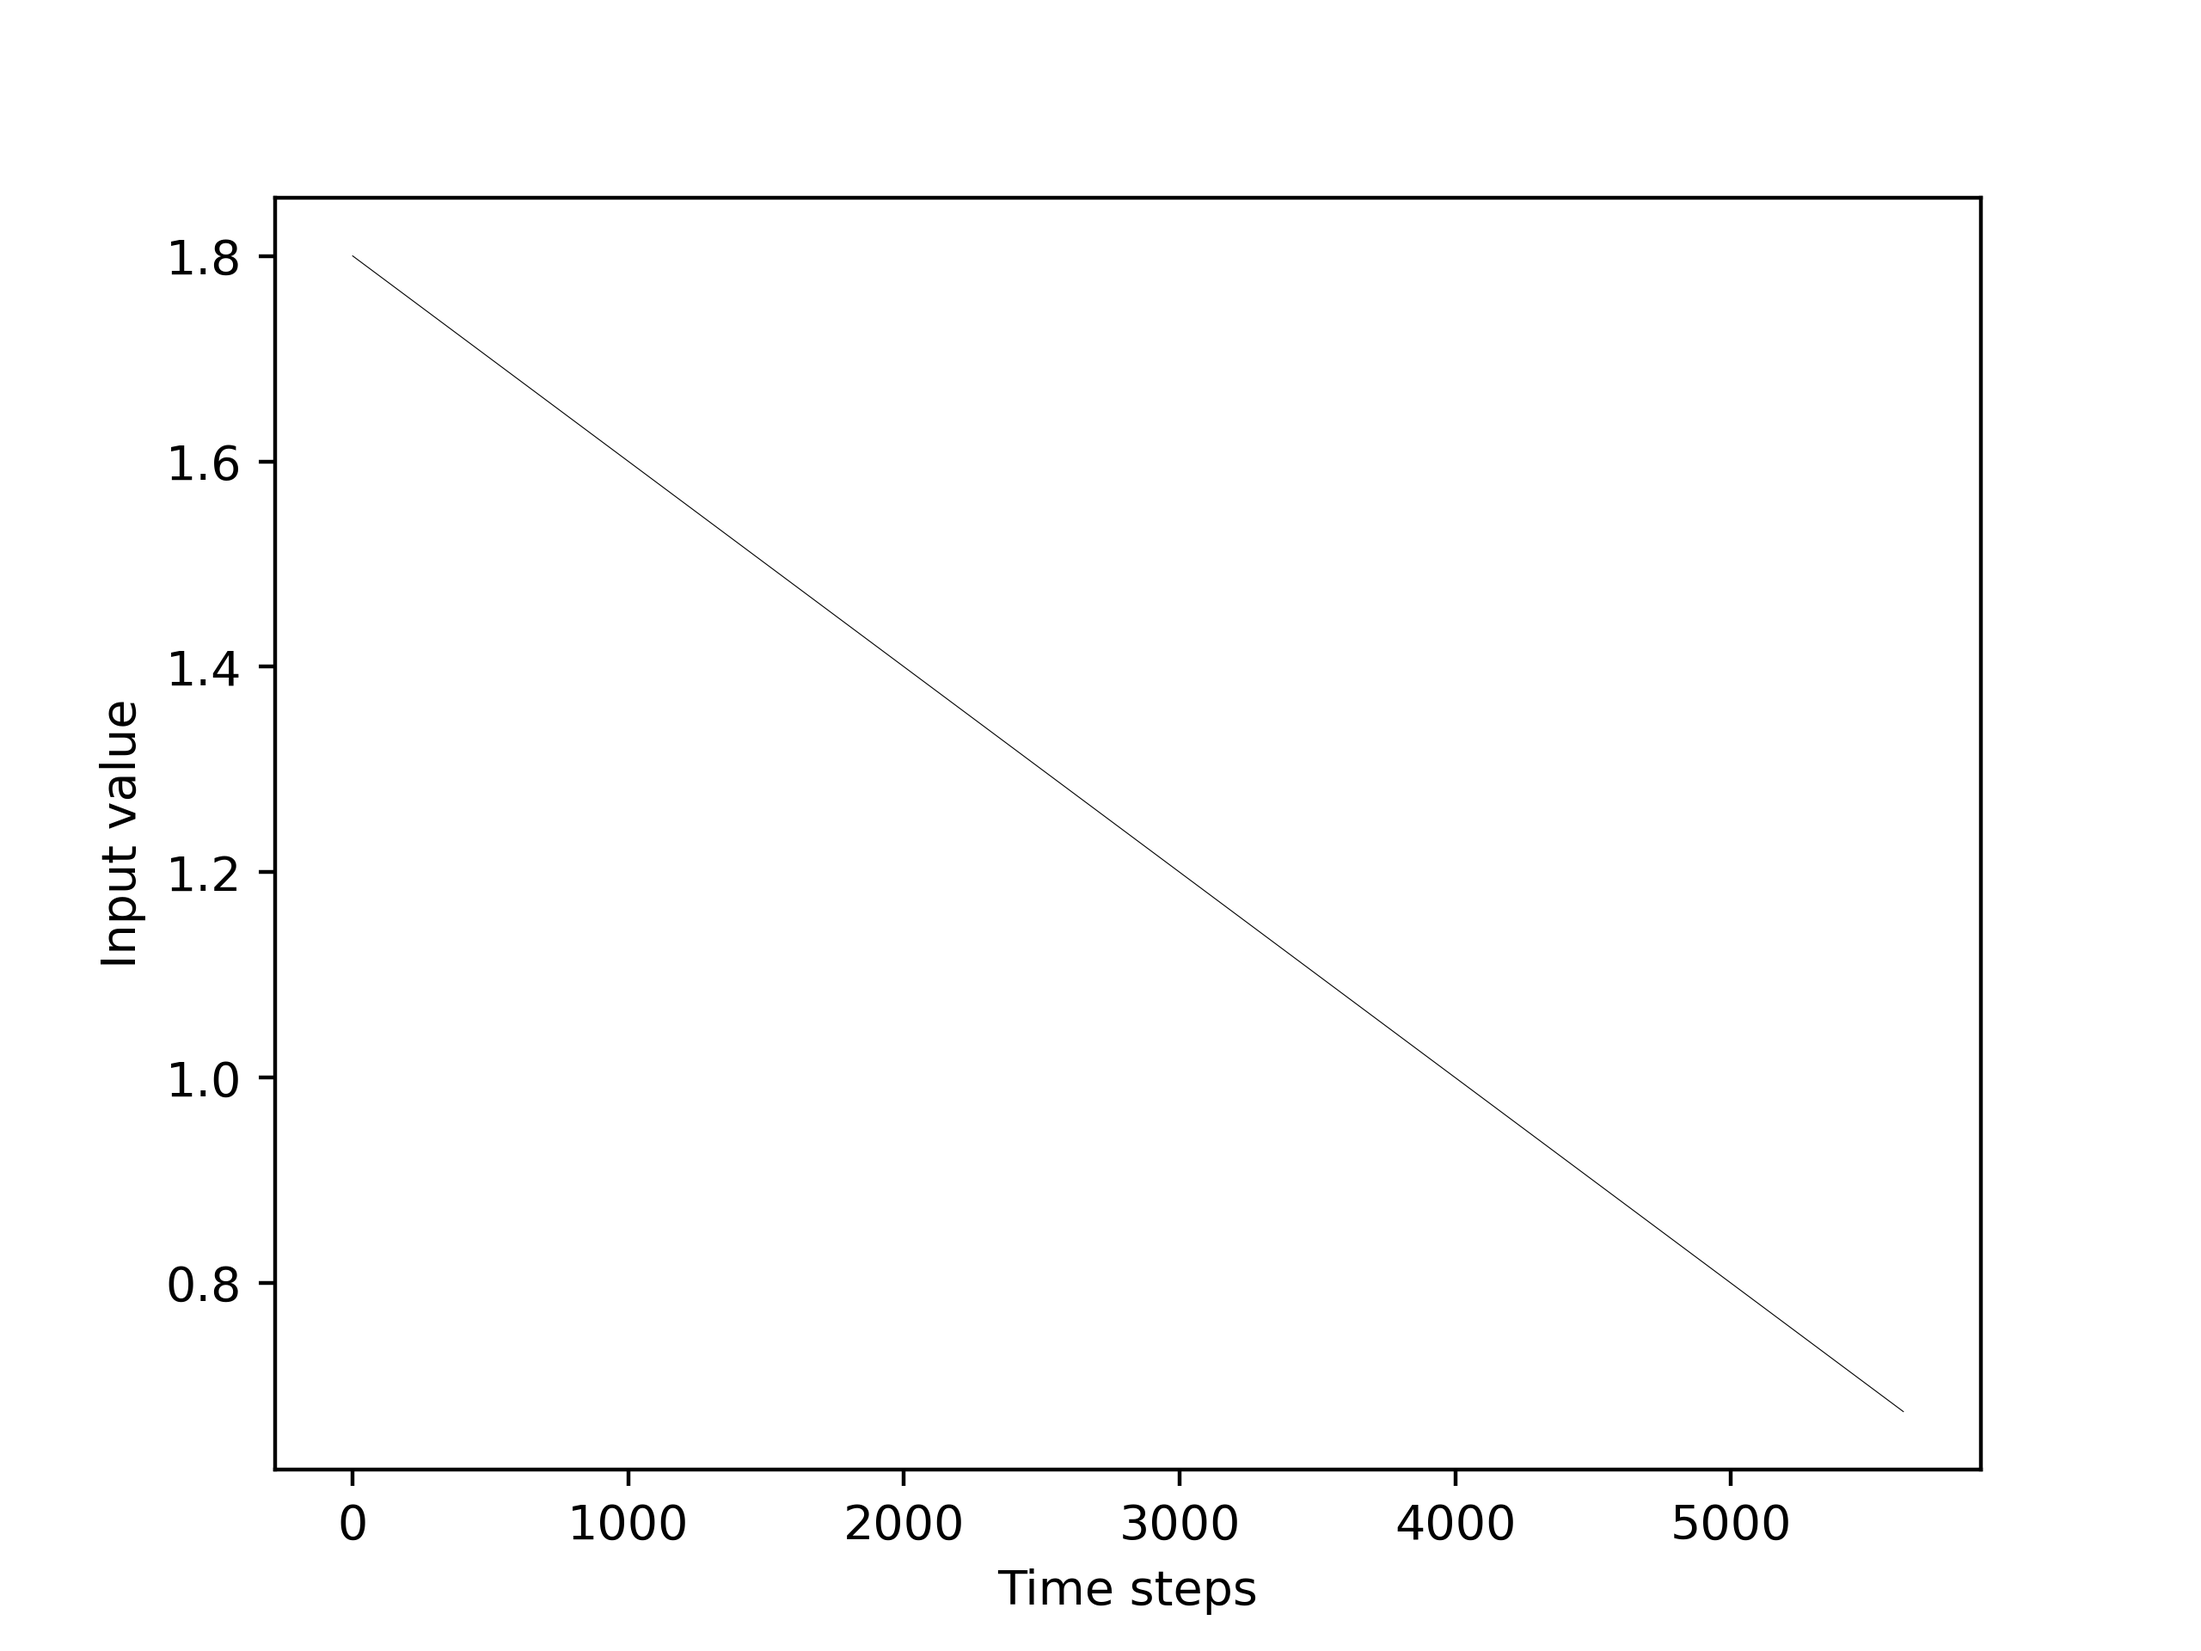
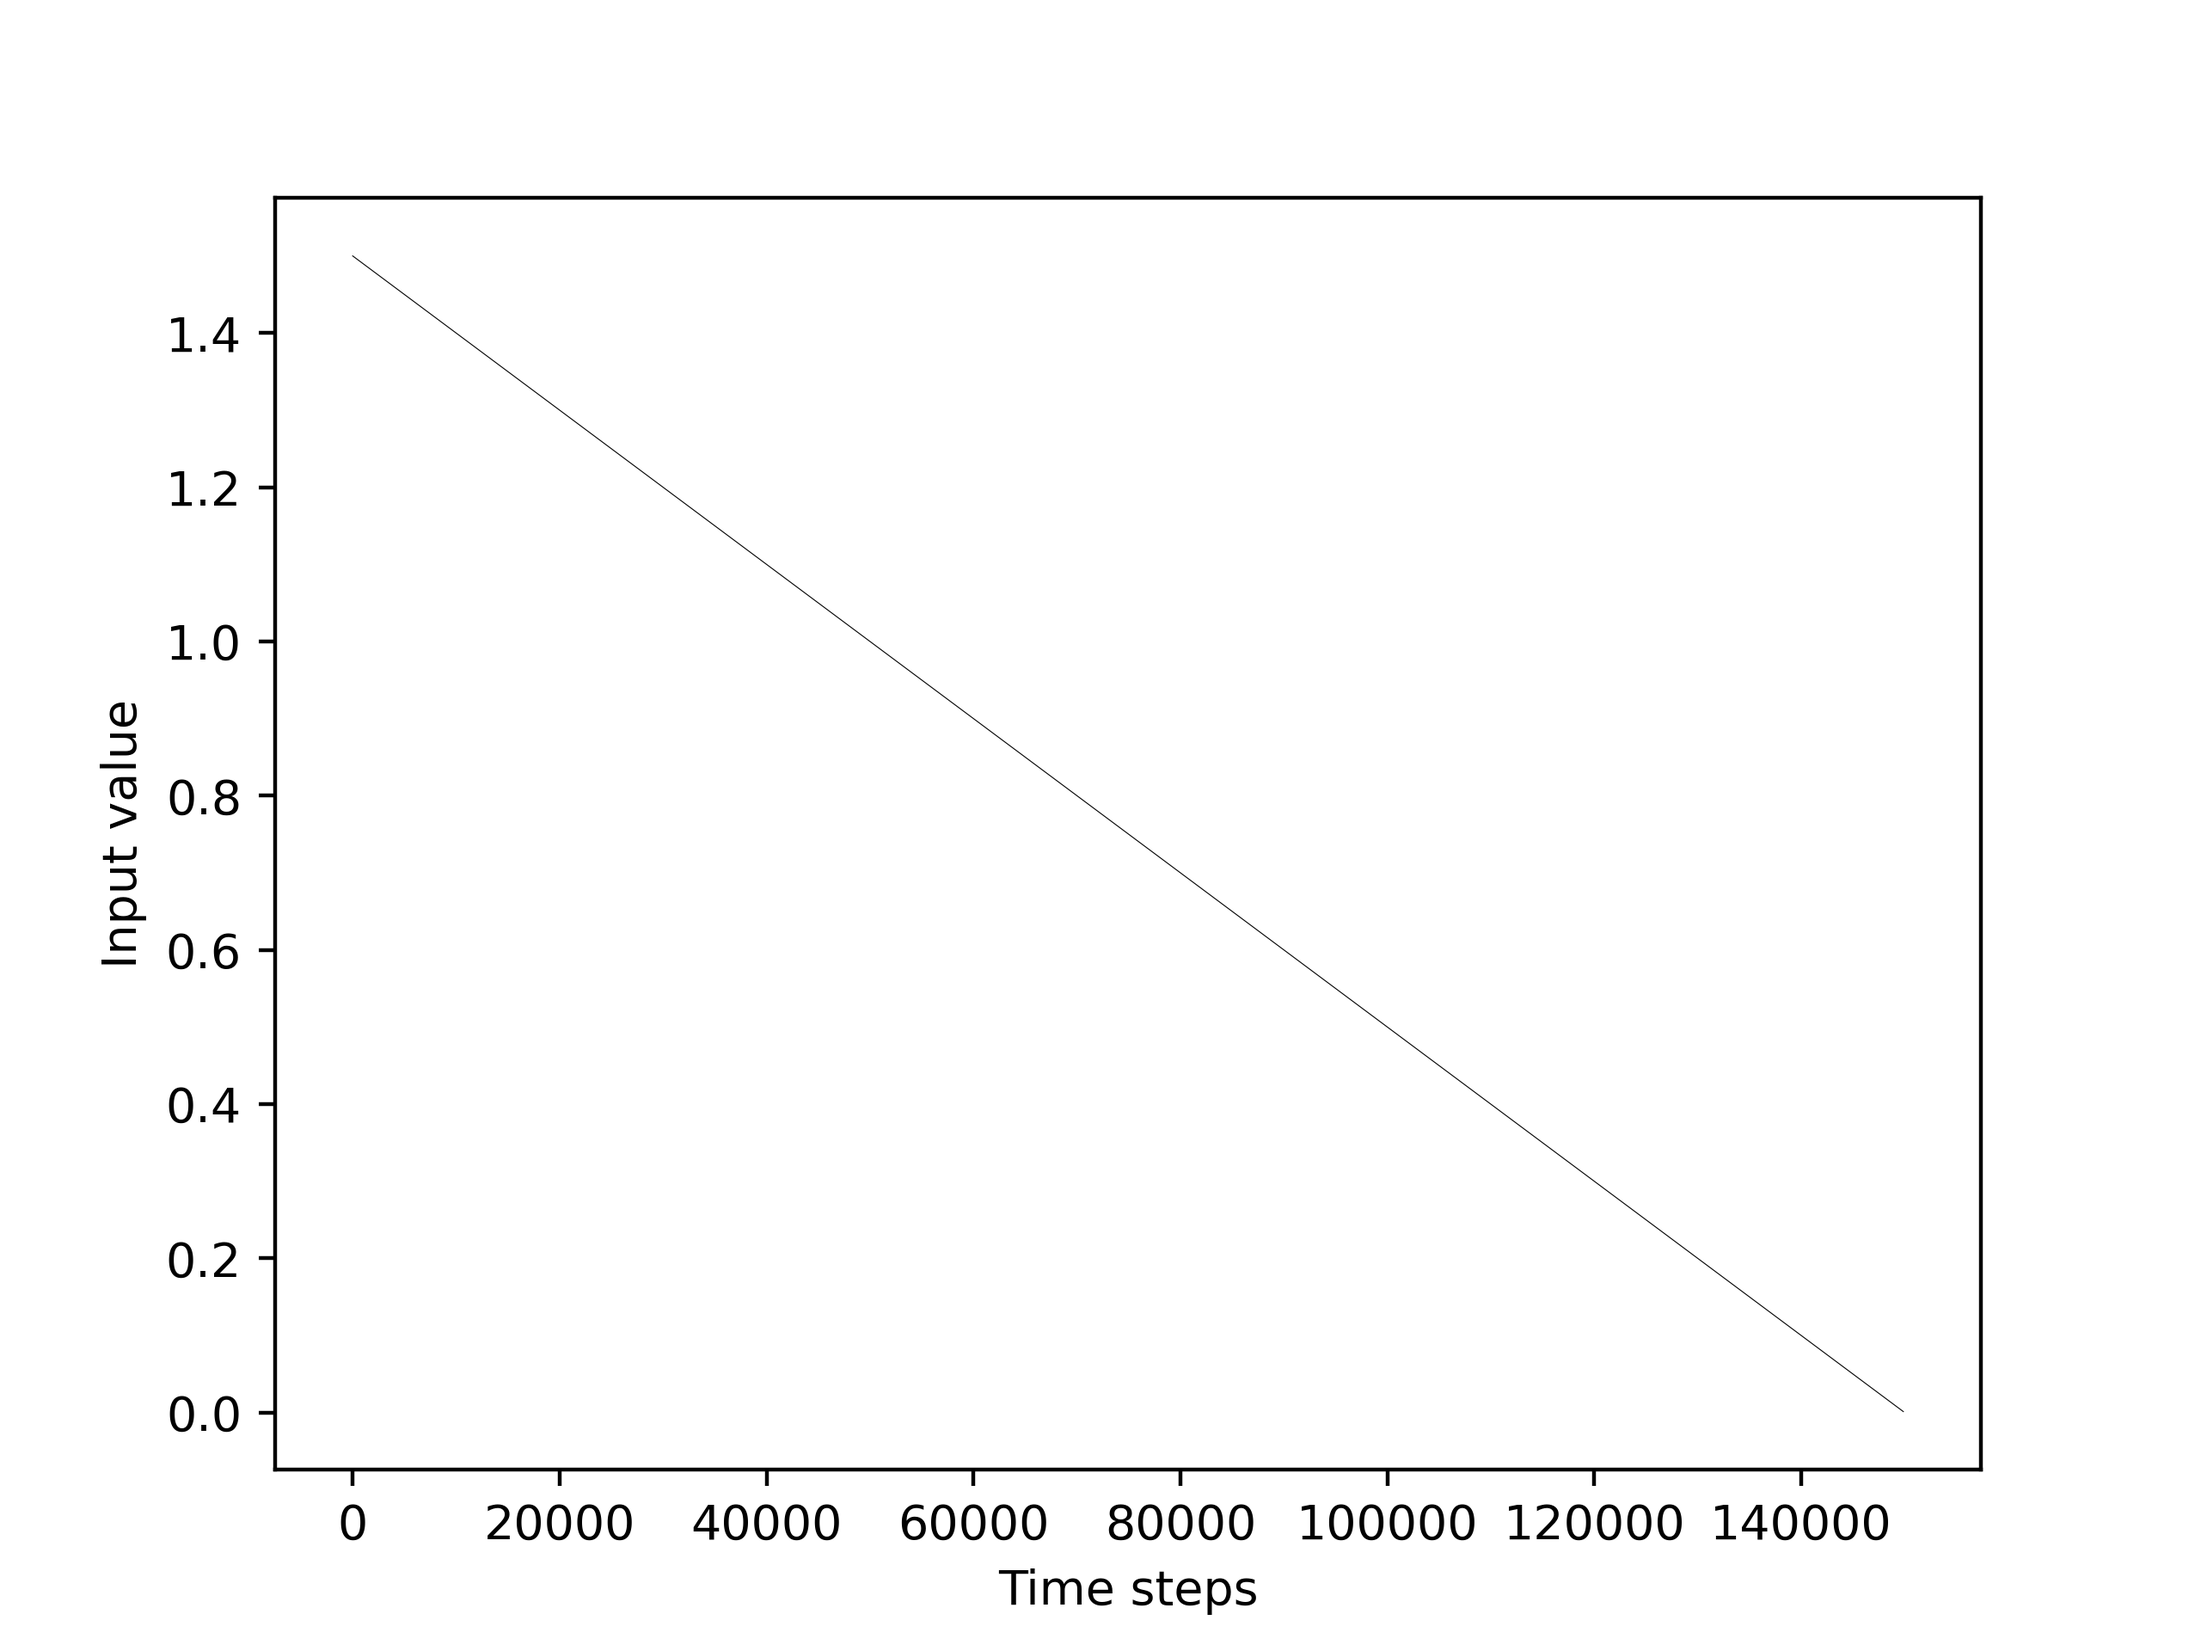
nothing new, just making network plotter

diff --git a/net_char.py b/net_char.py
@@ -21,7 +21,7 @@ class Network:
         graph = nx.DiGraph()
         graph.add_weighted_edges_from(edges)
         return graph
-    '''
+    
     def calculate_mean_degree(self, degree_type):
         # Calculate the mean degree for the specified type (in-degree or out-degree)
         degrees = getattr(self.graph, degree_type)()
@@ -57,28 +57,28 @@ class Network:
 
         cluster_coefficient = nx.average_clustering(self.graph)
         return round(cluster_coefficient, 3)
-    '''
-'''def plot_specific_network(networks_by_step, step_to_plot, network_number_to_plot):
+    
+def plot_specific_network(networks_by_step, step_to_plot, network_number_to_plot):
     for step, network_instance_list in networks_by_step.items():
         if step == step_to_plot:
             for i, network_instance in enumerate(network_instance_list):
                 if i + 1 == network_number_to_plot:
                     network_instance.plot_network(step)
-'''
-'''def write_network_analysis(file_path, networks_by_step, step_to_plot, network_number_to_plot):
-    with open(file_path, 'a') as output_file:
-        output_file.write("step,net,Mn_ideg,Mn_odeg,cl_c\n")
 
-        for step, network_instances in networks_by_step.items():
-            for network_instance in network_instances:
-                average_in_degree = network_instance.calculate_mean_degree('in_degree')
-                average_out_degree = network_instance.calculate_mean_degree('out_degree')
-                cluster_coefficient = network_instance.calculate_cluster_coefficient()
-                #output_file.write(f"{step},{network_instance.name},{average_in_degree},{average_out_degree},{diameter},{cluster_coefficient}\n")
-                output_file.write(f"{step},{network_instance.name},{average_in_degree},{average_out_degree},{cluster_coefficient}\n")
+def write_network_analysis(file_path, networks_by_step, step_to_plot, network_number_to_plot):
+    #with open(file_path, 'a') as output_file:
+    #    output_file.write("step,net,Mn_ideg,Mn_odeg,cl_c\n")
+
+        #for step, network_instances in networks_by_step.items():
+        #    for network_instance in network_instances:
+        #        average_in_degree = network_instance.calculate_mean_degree('in_degree')
+        #        average_out_degree = network_instance.calculate_mean_degree('out_degree')
+        #        cluster_coefficient = network_instance.calculate_cluster_coefficient()
+        #        #output_file.write(f"{step},{network_instance.name},{average_in_degree},{average_out_degree},{diameter},{cluster_coefficient}\n")
+        #        output_file.write(f"{step},{network_instance.name},{average_in_degree},{average_out_degree},{cluster_coefficient}\n")
     
     plot_specific_network(networks_by_step, step_to_plot, network_number_to_plot)
-'''
+
 def read_multiple_networks(file_path):
     networks = {}
     current_network = None
@@ -127,6 +127,7 @@ def read_multiple_networks(file_path):
 
     return networks
 
+'''
 def calculate_ged(networks_by_step):
     num_networks = sum(len(networks) for networks in networks_by_step.values())
     ged_matrix = np.zeros((num_networks, num_networks))
@@ -155,19 +156,19 @@ def save_ged_matrix(ged_matrix, output_file_path):
             for value in row:
                 output_file.write(f"{value:.4f}\t")
             output_file.write("\n")
-
+'''
 file_path = './History/Network.txt'
 
 networks_by_step = read_multiple_networks(file_path)
 
 # Specify the output file path
 output_file_path = './Outputs/00Net_analysis.txt'
-step_to_plot = 2000
-network_number_to_plot = 881
+step_to_plot = 1200
+network_number_to_plot = 700
 
 # Calculate and write the network analysis parameters to the output file
-#write_network_analysis(output_file_path, networks_by_step, step_to_plot, network_number_to_plot)
+write_network_analysis(output_file_path, networks_by_step, step_to_plot, network_number_to_plot)
 
-ged_matrix = calculate_ged(networks_by_step)
-output_ged_file_path = './Outputs/GED_matrix.txt'
-save_ged_matrix(ged_matrix, output_ged_file_path)
+#ged_matrix = calculate_ged(networks_by_step)
+#output_ged_file_path = './Outputs/GED_matrix.txt'
+#save_ged_matrix(ged_matrix, output_ged_file_path)

diff --git a/Functions/base.cpp b/Functions/base.cpp
@@ -33,10 +33,10 @@ void genome::base (int N)
     {
         needed_networks = 0;
         du_needed_networks = 0;
-        evolve = Environment_li(ini, step) ; //for linear and step based increase
+        //evolve = Environment_li(ini, step) ; //for linear and step based increase
         //evolve = Environment_Ga(); //Gaus environment
         //evolve = Environment_no_l(evolve, step); //No linear with gaus jumps environment
-        //evolve = Environment_neg(ini, step); //Negative gradients
+        evolve = Environment_neg(ini, step); //Negative gradients
         alive = 0;
         du_alive = 0;
         fit = 0;

diff --git a/Functions/du_mutation.cpp b/Functions/du_mutation.cpp
@@ -3,7 +3,7 @@
 void genome::du_Mutation()
 {
     int s = temp_net;
-    double equ_mt= 2;  //by dividing all mutation rate of the single networks by this value, we make the mutaiton rate of the single and doubles identical to each other
+    double equ_mt= 2.0;  //by dividing all mutation rate of the single networks by this value, we make the mutaiton rate of the single and doubles identical to each other
     double nw_wght  = chance_changing_weight / equ_mt;    //new weight
     
     double rwrng_nw_cnnctn = chance_of_new_connetion / equ_mt;
